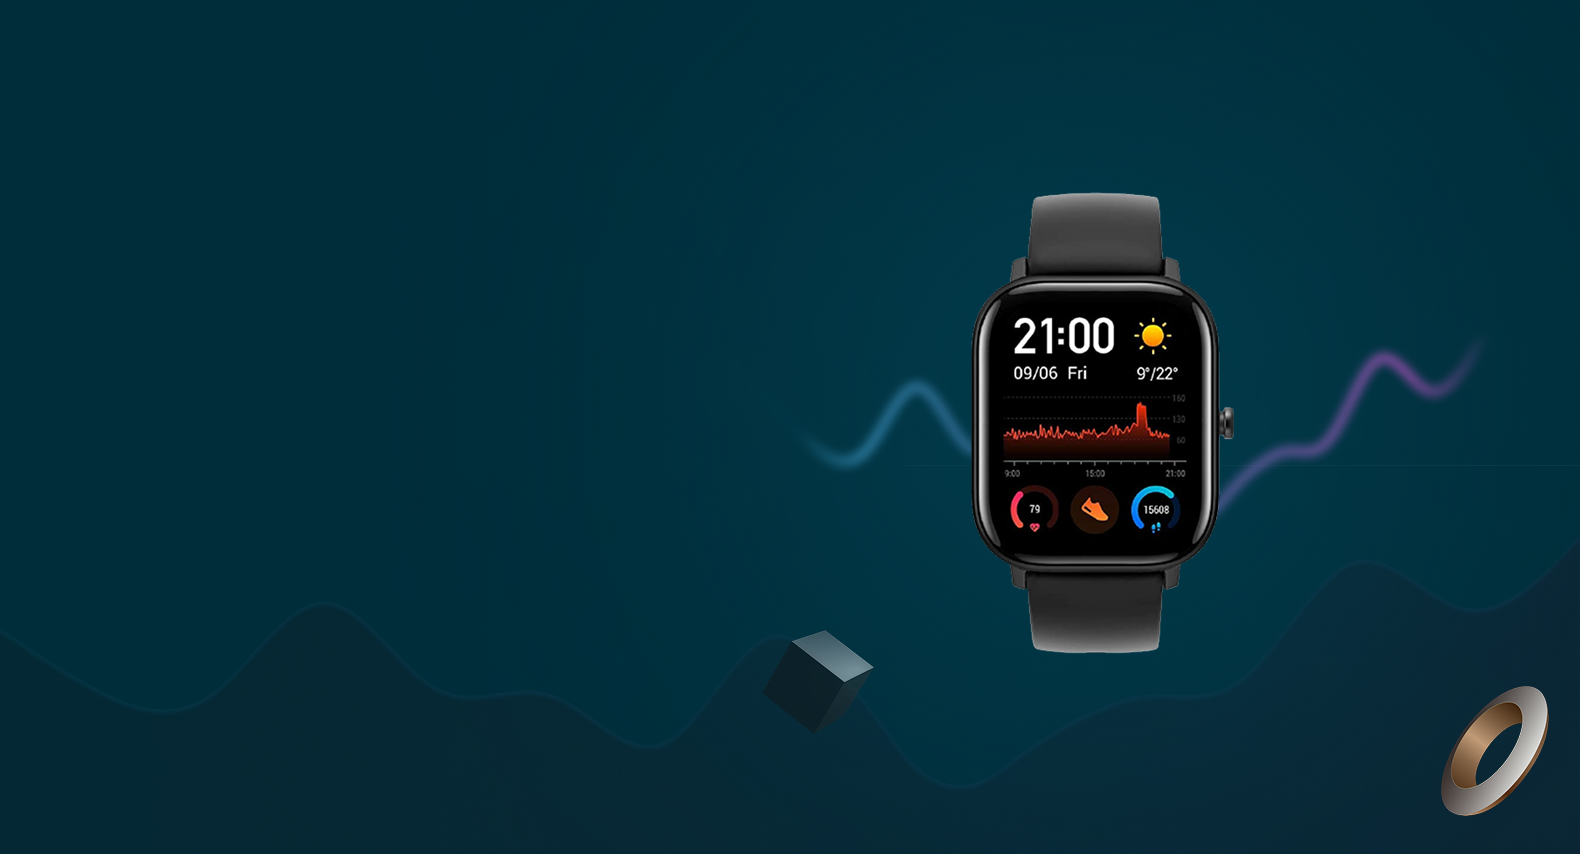
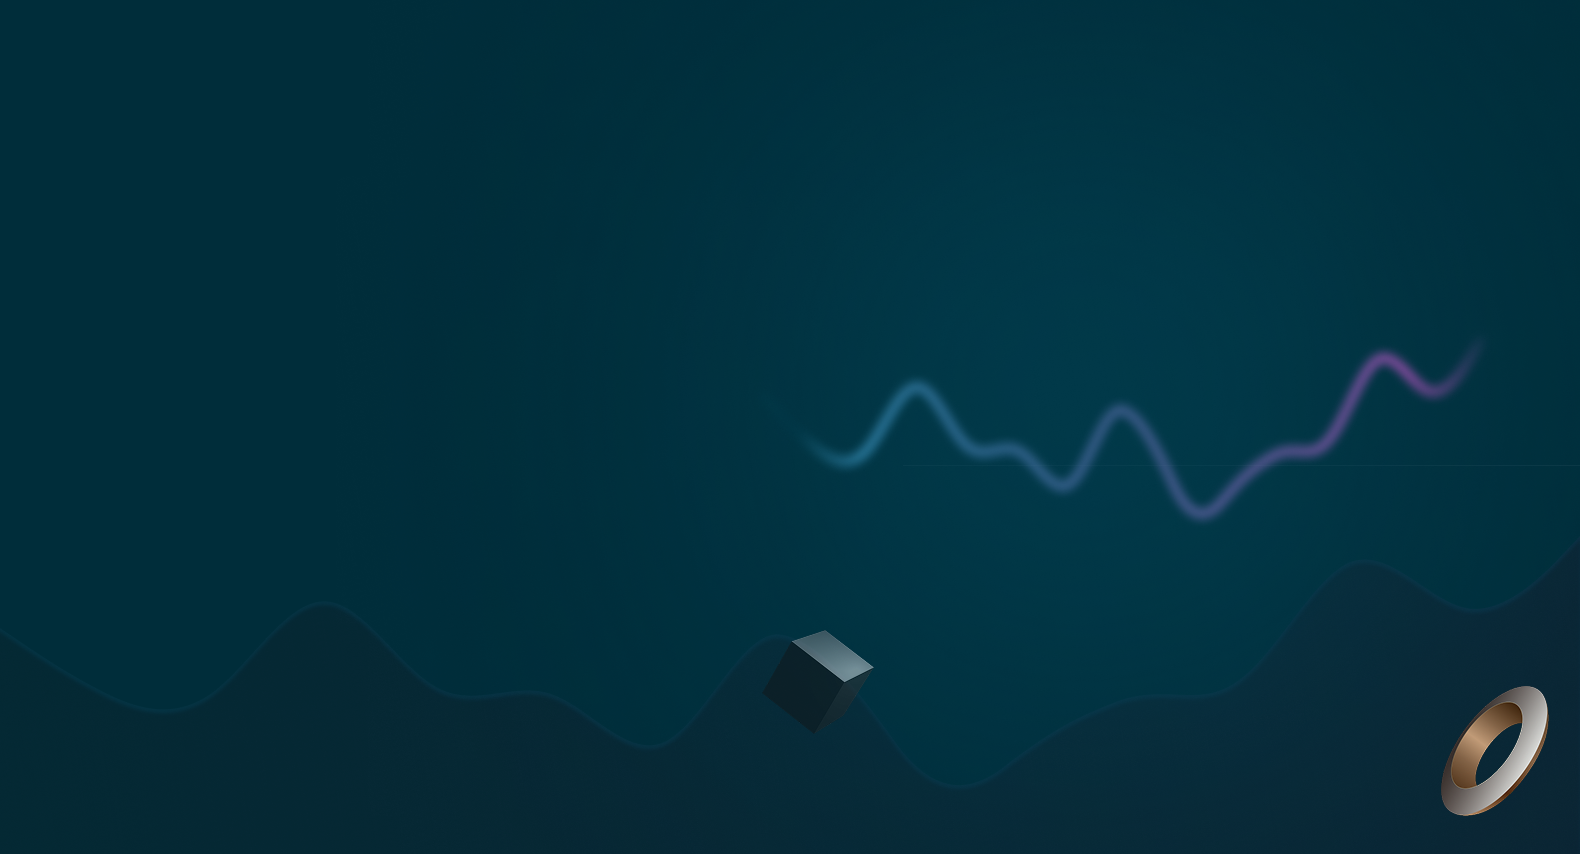
Header

Changed region(s): [[0.5892, 0.2131, 0.8063, 0.7916]]

diff --git a/css/styles.css b/css/styles.css
@@ -1,20 +1,53 @@
-header nav .nav-content .nav-links, header nav .nav-content, header {
+@import url("https://fonts.googleapis.com/css2?family=Poppins:ital,wght@0,100;0,200;0,300;0,400;0,500;0,600;0,700;0,800;0,900;1,100;1,200;1,300;1,400;1,500;1,600;1,700;1,800;1,900&display=swap");
+.section-1, header .header-content .left {
+  display: flex;
+}
+
+header .header-content .left {
+  align-items: flex-start;
+}
+
+header .header-content {
+  justify-content: space-around;
+}
+
+header .header-content .left {
+  flex-direction: column;
+}
+
+header .header-content, header nav .nav-content .nav-links, header nav .nav-content, header {
   display: flex;
   align-items: center;
+}
+
+a {
+  text-decoration: none;
 }
 
 * {
   margin: 0;
   padding: 0;
   box-sizing: border-box;
+  font-family: "Poppins", sans-serif;
 }
 
-a {
-  color: wheat;
+button {
+  padding: 0.7rem 1.5rem;
+  background: #13ae92;
+  border: 1px solid #13ae92;
+  transition: 0.3s;
+  color: white;
+  border-radius: 3px;
+  cursor: pointer;
+}
+
+button:hover {
+  background: transparent;
 }
 
 header {
   min-height: 100vh;
+  overflow: hidden;
   background: url("../assets/header bg.png");
   background-repeat: no-repeat;
   background-position: center;
@@ -30,6 +63,46 @@ header nav {
 }
 header nav .nav-content {
   gap: 50px;
+}
+header nav .nav-content a {
+  color: white;
+}
+header nav .nav-content .nav-links {
+  gap: 1.25rem;
+}
+header .header-content {
+  margin-top: 50px;
+  gap: 200px;
+}
+header .header-content div {
+  width: 548px;
+  height: 548px;
+}
+header .header-content .left {
+  justify-content: center;
+  gap: 20px;
+}
+header .header-content .left span {
+  color: #119786;
+  font-size: 14px;
+  font-weight: 600;
+}
+header .header-content .left h1 {
+  color: #ffffff;
+  font-size: 61px;
+  font-weight: 700;
+  line-height: 125%;
+}
+header .header-content .left p {
+  color: #ffffff;
+  opacity: 70%;
+  font-size: 16px;
+  font-weight: 400;
+}
+header .header-content .right {
+  background: url(../assets/watch.png);
+  background-repeat: no-repeat;
+  background-position: center;
 }
 
 /*# sourceMappingURL=styles.css.map */

diff --git a/scss/styles.scss b/scss/styles.scss
@@ -1,9 +1,21 @@
+@import url("https://fonts.googleapis.com/css2?family=Poppins:ital,wght@0,100;0,200;0,300;0,400;0,500;0,600;0,700;0,800;0,900;1,100;1,200;1,300;1,400;1,500;1,600;1,700;1,800;1,900&display=swap");
+
+
+
 %df {
   display: flex;
 }
 
 %aic {
   align-items: center;
+}
+
+%aifs {
+  align-items: flex-start;
+}
+
+%aife {
+  align-items: flex-end;
 }
 
 %jcsa {
@@ -23,19 +35,33 @@
   align-items: center;
 }
 
+a {
+  text-decoration: none;
+}
+
 * {
   margin: 0;
   padding: 0;
   box-sizing: border-box;
+  font-family: "Poppins", sans-serif;
 }
 
-a {
-  color: wheat;
+button {
+  padding: 0.7rem 1.5rem;
+  background: #13ae92;
+  border: 1px solid #13ae92;
+  transition: 0.3s;
+  color: white;
+  border-radius: 3px;
+  cursor: pointer;
+}
+button:hover {
+  background: transparent;
 }
 
 header {
   min-height: 100vh;
-
+  overflow: hidden;
   background: url("../assets/header\ bg.png");
   background-repeat: no-repeat;
   background-position: center;
@@ -54,9 +80,55 @@ header {
       @extend %dfaic;
       gap: 50px;
 
+      a {
+        color: white;
+      }
+
       .nav-links {
         @extend %dfaic;
+        gap: 1.25rem;
       }
     }
   }
+
+  .header-content {
+    @extend %dfaic, %jcsa;
+    margin-top: 50px;
+    gap: 200px;
+    div {
+      width: 548px;
+      height: 548px;
+    }
+    .left {
+      @extend %df, %fdc, %aifs;
+      justify-content: center;
+      gap: 20px;
+      span {
+        color: #119786;
+        font-size: 14px;
+        font-weight: 600;
+      }
+      h1 {
+        color: #ffffff;
+        font-size: 61px;
+        font-weight: 700;
+        line-height: 125%;
+      }
+      p {
+        color: #ffffff;
+        opacity: 70%;
+        font-size: 16px;
+        font-weight: 400;
+      }
+    }
+    .right {
+      background: url(../assets/watch.png);
+      background-repeat: no-repeat;
+      background-position: center;
+    }
+  }
+}
+
+.section-1 {
+    @extend %df, 
 }

diff --git a/index.html b/index.html
@@ -19,6 +19,31 @@
           <button>Shop now</button>
         </div>
       </nav>
+
+      <div class="header-content">
+        <div class="left">
+          <span>SMART WATCH</span>
+          <h1>Super Luxury, Super Watches</h1>
+          <p>
+            It can be a very secure path to earn good money and make you very
+            successfully creativety entrepreneur. You can take advice from
+            experience Person and improve you.
+          </p>
+          <button>Shop Now</button>
+        </div>
+        <div class="right"></div>
+      </div>
     </header>
+    <section class="section-1">
+      <div class="content">
+        <div class="left">
+            <div class="left">
+                
+            </div>
+            <div class="right"></div>
+        </div>
+        <div class="right"></div>
+      </div>
+    </section>
   </body>
 </html>
